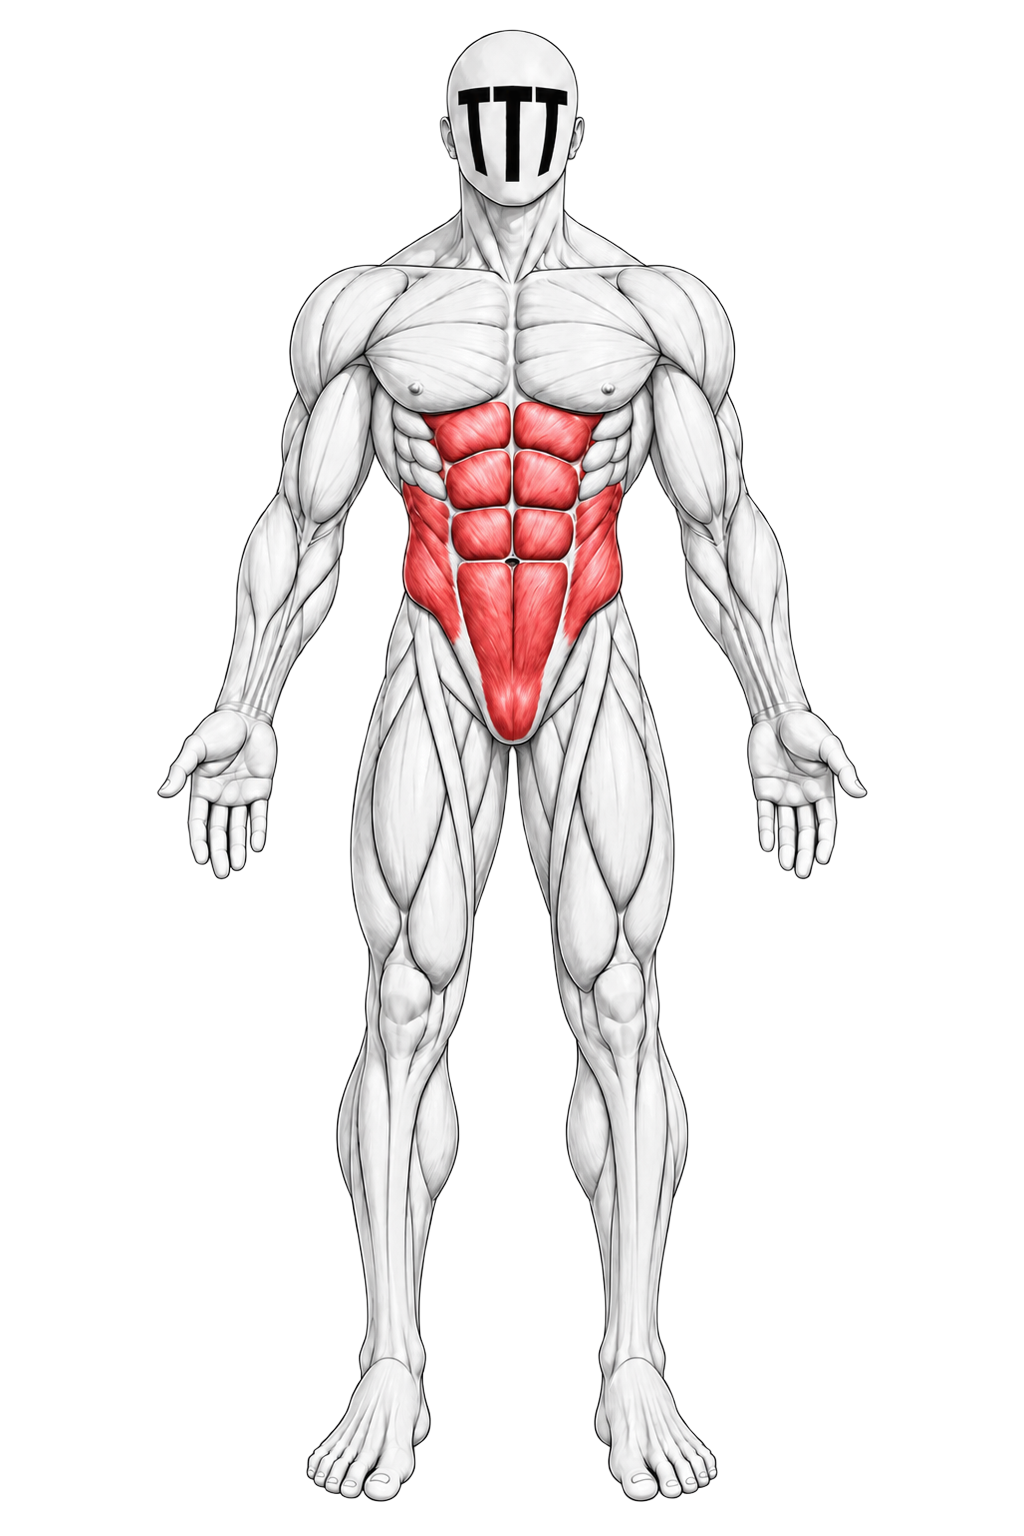
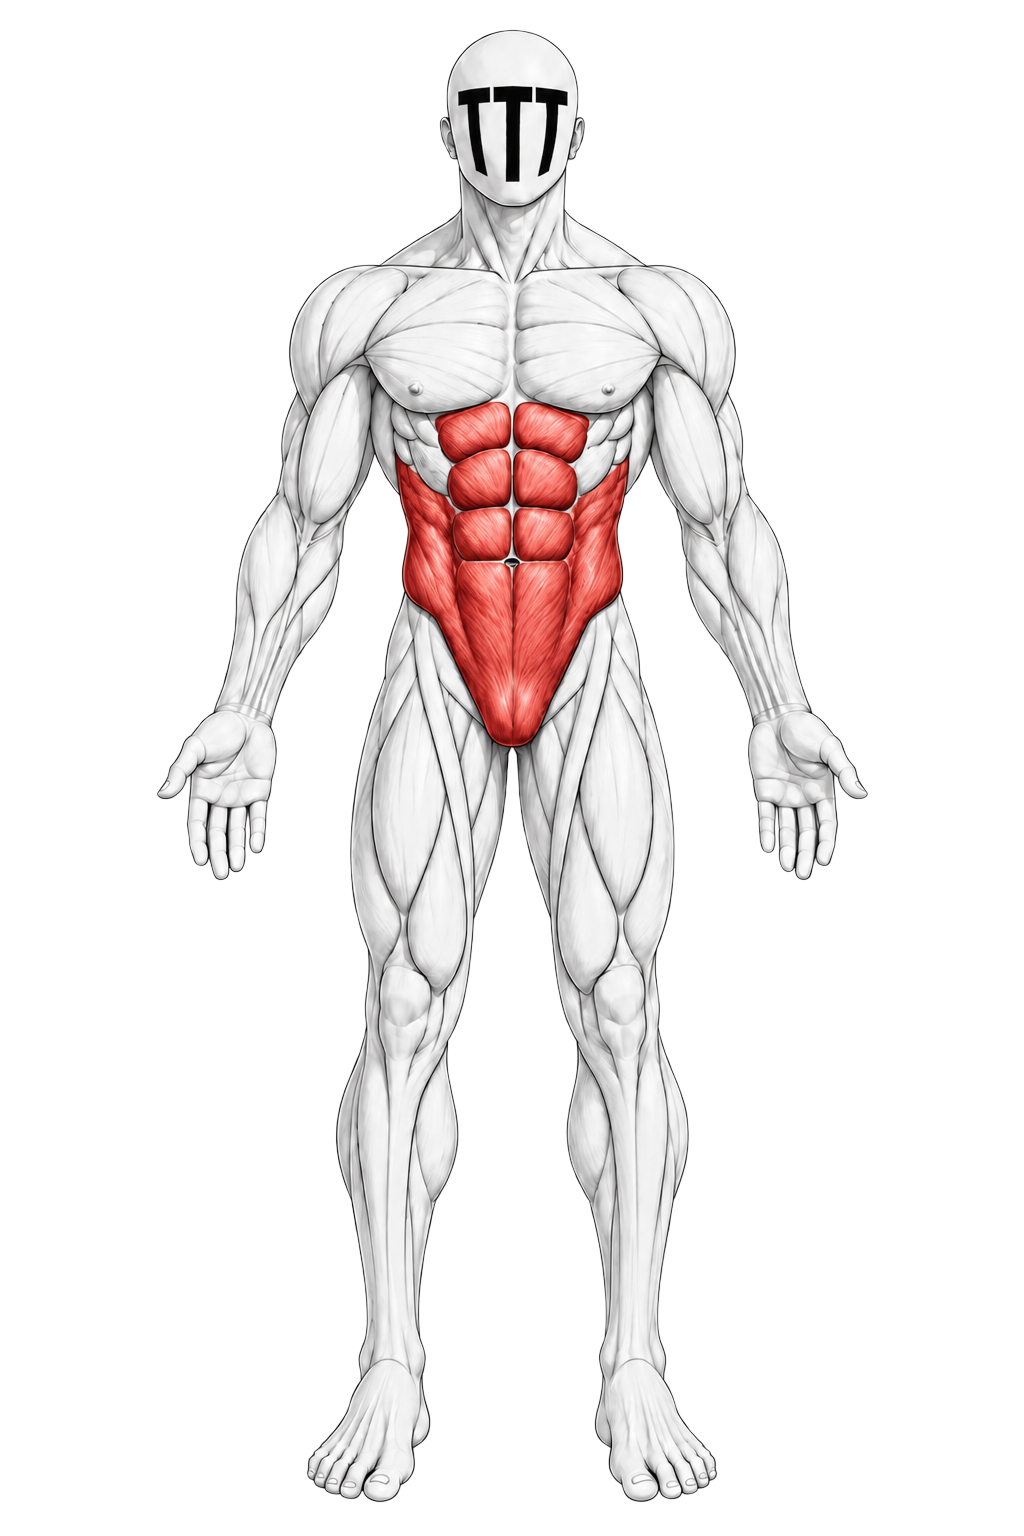
코어 강조 이미지 교체 (#465)
사용자가 새로 제공한 이미지로 icons/muscle/highlight/core_front.png 교체.
새 이미지는 기본 이미지(front.png)와 실루엣 bbox가 이미 완전히 동일해서
(스케일 1.0) 정규화가 사실상 필요 없었지만, 다른 부위와 동일한 파이프라인을
그대로 적용해 저장.

diff --git a/index.html b/index.html
@@ -10041,7 +10041,7 @@ const settingsHeaderName = document.getElementById("settingsHeaderName");
 const settingsHeaderSub = document.getElementById("settingsHeaderSub");
 
 /* ✅ 앱 버전 정의 — 의미 있는 수정/배포마다 올림(설정 화면에서 "최신 버전 받았는지" 확인용) */
-const APP_VERSION = "0.8.84";
+const APP_VERSION = "0.8.85";
 const appVersionDisplay = document.getElementById("appVersionDisplay");
 if (appVersionDisplay) {
   appVersionDisplay.textContent = APP_VERSION;
